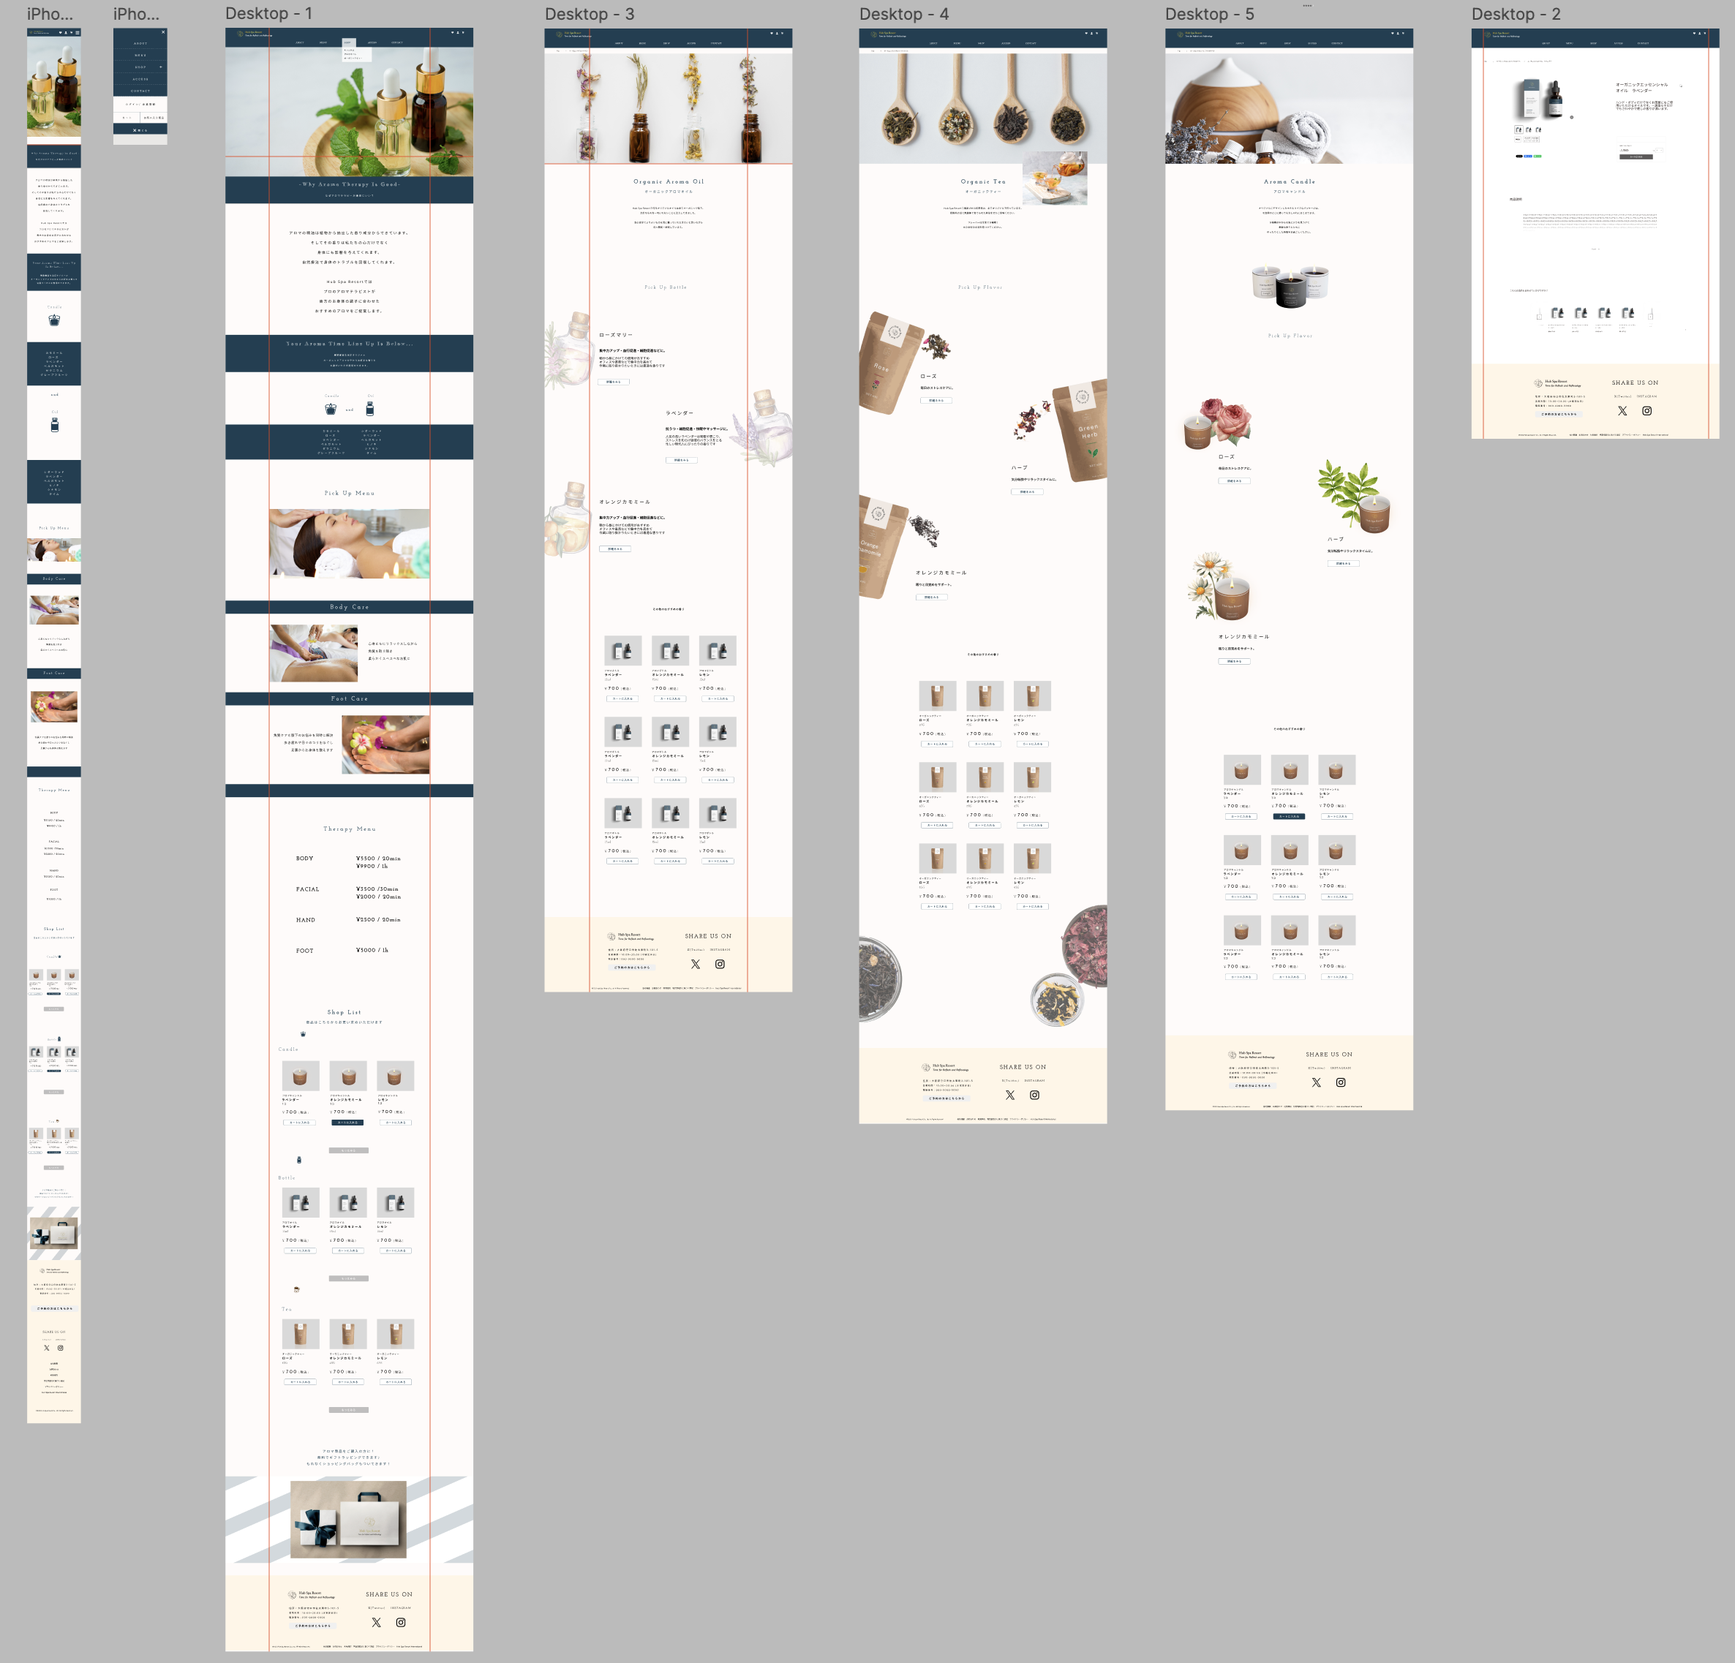
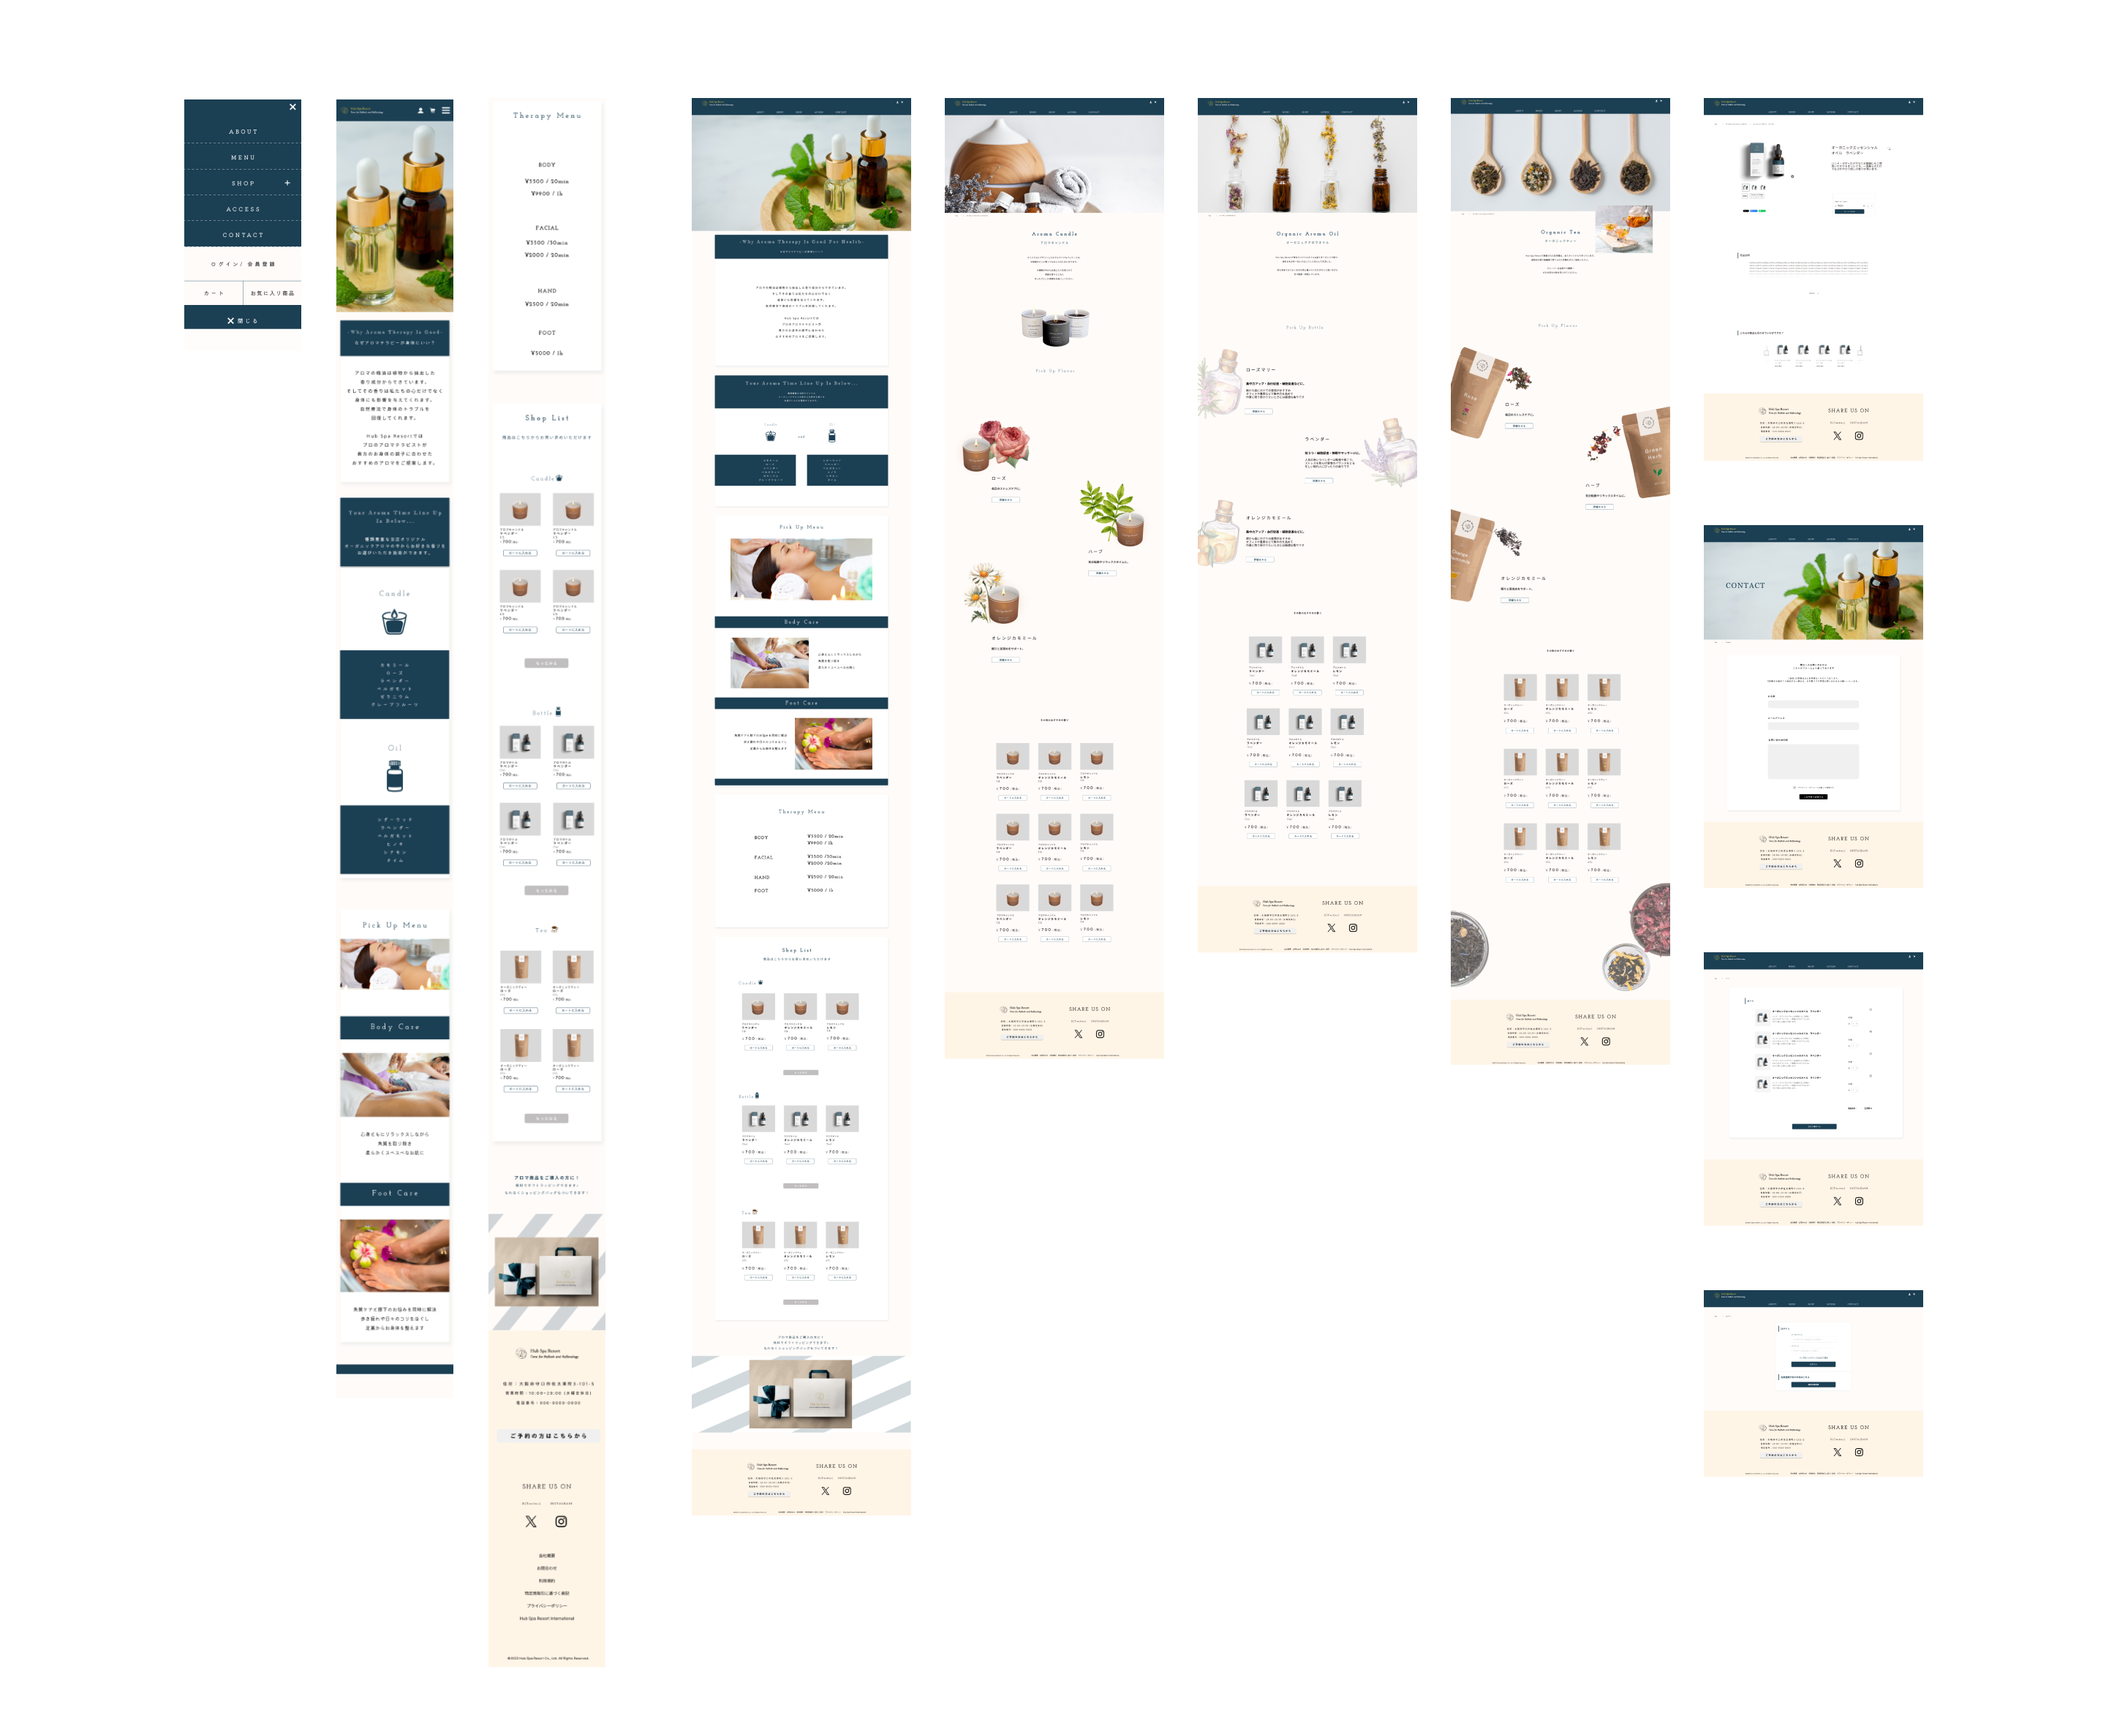
並べ替え

diff --git a/index.html b/index.html
@@ -624,7 +624,8 @@
                         
                         <img src="branding/aroma.png">
                         <p>ECデザイン</p>
-                        <img src="branding/figma-aroma.png">
+                        <img src="branding/figma-aroma.png" style="width:80%;">
+                        <p style="margin: -45px auto 25px">(1920px)</p>
                         <!-- <img src="branding/aroma1.jpg" >
                         <img src="branding/aroma2.jpg"> -->
                         <p><a href="https://www.figma.com/proto/YiI7diBzSTRhnYA3CJDvk4/%E3%82%A2%E3%83%AD%E3%83%9EEC?node-id=0-812&t=7wEcfmwdsZyhIjdf-1" target="_blank" class="btn_13">アロマECサイト制作ページ</a></p>
@@ -638,15 +639,15 @@
                     <input id="block-04" type="checkbox" class="gallery-toggle"> 
                     <label class="Label" for="block-04"><li class="gallery-text"><span >ハンバーガー店のWEBサイト制作コーディング</span></li></label>
                     <div class="brand-content" >
-                        <div class="img-flex" style="width: 75%; margin: 0 auto; justify-content: center;">
+                        <div class="img-flex" style="width: 70%; margin: 0 auto; justify-content: center;">
                             <img src="branding/burger_black.jpg">
                             <img src="branding/burger_black2.jpg">
                             </div>
-                            <div class="img-flex" style="width: 75%; margin: 0 auto; justify-content: center;">
+                            <div class="img-flex" style="width: 70%; margin: 0 auto; justify-content: center;">
                             <img src="branding/burger-shopcard.jpg">
                             <img src="branding/burger-shopcard2.jpg">
                             </div>
-                            <div class="img-flex" style="width: 75%; margin: 0 auto; justify-content: center;">
+                            <div class="img-flex" style="width: 70%; margin: 0 auto; justify-content: center;">
                             <img src="branding/burger-menu.jpg">
                             <img src="branding/burger-menu2.jpg">
                             </div>
@@ -674,11 +675,11 @@
 
 
                 <div class="gallery-category"> 
-                    <img src="branding/cookie-img.jpg">  
+                    <img src="branding/cookie-img.jpg" style="width: 50%;">  
                     <input id="block-06" type="checkbox" class="gallery-toggle"> 
                     <label class="Label" for="block-06"><li class="gallery-text"><span >洋菓子販売店LP模写</span></li></label>
                     <div class="brand-content">
-                        <div class="img-flex" style="width: 86%; margin: 0 auto; justify-content: center;">
+                        <div class="img-flex" style="width: 80%; margin: 0 auto; justify-content: center;">
                         <img src="branding/cookie-lp.jpg" >
                         <img src="branding/cookie-lp2.jpg" >
                         </div>
@@ -691,41 +692,7 @@
             </div>    
 
             
-            <div class="gallery">
-                <p>- マーケティング -</p>
-                <h2>Marketing▼</h2>
-            </div>   
-            <div class="gallery-category"> 
-                <img src="branding/marketing-report.jpg">  
-                
-                <p><a href="https://online.updf.com/pdf/share?shareId=822085682481602561">定例レポート作成と改善提案（一例）</a></p>
-                <div style="margin-bottom: 120px;"></div>
-            </div>
-
-
-            <div class="gallery">
-                <p class="web-midashi">- その他入選 -</p>
-             </div> 
-            <div class="gallery-nenga">
-                
-                <div class="compe-nenga">
-                    <img src="branding/reiwalogo.gif" width="229px" height="45px">
-                    <p class="web-midashi2">れいわdeねんが様での掲載+商品化はがきデザイン</p>
-                    <div class="img-flex">
-                        <img src="branding/compe_nenga.png">
-                        <img src="branding/compe_nenga2.JPG">
-                    </div>
-                </div>
-                <div class="compe-nenga">
-                    <img src="branding/hanslogo.png" width="190px" height="70px">
-                    <p class="web-midashi2"> <a href="https://printing-service.jp/vote/#detail/57/%E3%81%82%E3%82%8A%E3%81%A1%E3%82%83%E3%82%93/%E3%82%BF%E3%82%A4%E3%83%88%E3%83%AB%E3%81%AF%E3%80%8C%E4%BC%9D%E8%AA%AC%E3%81%AE%E8%BE%B0%E3%81%A8%E5%92%8C%E3%81%AE%E8%B1%A1%E5%BE%B4%E3%80%8D%E3%80%82%E3%82%B3%E3%83%B3%E3%82%BB%E3%83%97%E3%83%88%E3%81%AF%E5%B9%BB%E3%81%A8%E7%8F%BE%E5%AE%9F%E3%81%AE%E5%92%8C%E9%A2%A8%E6%99%AF%E3%81%A7%E3%81%99%E3%80%82%E8%83%8C%E6%99%AF%E3%81%AF%E9%9A%9C%E5%AD%90%E3%82%84%E5%B1%8F%E9%A2%A8%E3%82%92%E3%82%A4%E3%83%A1%E3%83%BC%E3%82%B8%E3%81%97%E3%80%81%E6%B0%B4%E5%BD%A9%E3%81%AE%E3%82%A4%E3%83%A9%E3%82%B9%E3%83%88%E3%82%92%E7%B4%B0%E3%81%8B%E3%81%8F%E5%8F%96%E3%82%8A%E5%85%A5%E3%82%8C%E3%81%BE%E3%81%97%E3%81%9F%E3%80%82%E6%98%94%E3%81%AA%E3%81%8C%E3%82%89%E3%81%AE%E5%92%8C%E3%81%AE%E9%A2%A8%E6%99%AF%E3%82%92%E5%B9%B3%E5%92%8C%E7%9A%84%E3%81%AB%E5%84%AA%E3%81%97%E3%81%8F%E8%A1%A8%E7%8F%BE%E3%81%97%E3%81%A6%E3%81%84%E3%81%BE%E3%81%99%E3%80%82">東急ハンズ様一次選考通過はがき</a></p>
-                    <div class="img-flex">
-                        <img src="branding/hans2.jpg">
-                        <img src="branding/hans.png">
-                    </div>
-                
-                </div>
-            </div>
+          
 
            
            
@@ -796,6 +763,62 @@
                         </div>
                     </div>
 
+                </div>
+            </div>
+
+
+            <hr width="80%" border-top: .5px solid #aaa style="margin-top:50px;" >
+
+
+            <div class="other" style="margin-bottom: 50px;">
+            <p>その他</p>
+            <h2>Other</h2>
+            <hr width="80%" border-top: .5px solid #aaa style="margin-top:15px;" >
+            </div>
+            
+
+            <div class="marketing" style="margin-top: 30px;">
+                <p>- マーケティング -</p>
+                <h2>Marketing▼</h2>
+            </div>   
+          
+
+
+            <div class="gallery-category"> 
+                <img src="branding/marketing-report.jpg">  
+                
+                <p><a href="https://online.updf.com/pdf/share?shareId=822085682481602561">定例レポート作成と改善提案（一例）</a></p>
+                <div style="margin-bottom: 120px;"></div>
+            </div>
+
+
+
+            
+            <div class="gallery" style="margin-top: 250px;">
+                <!-- <p class="web-midashi">- 入選関連 -</p> -->
+                <p>その他入選作品▼</p>
+                <hr width="50%" border-top: .5px solid #aaa style="margin-top:15px;" >
+               
+             </div> 
+
+            <div class="gallery-nenga">
+                
+                <div class="compe-nenga">
+                    <img src="branding/reiwalogo.gif" width="229px" height="45px">
+                    <p class="web-midashi2">れいわdeねんが様での掲載+商品化はがきデザイン</p>
+                    <div class="img-flex">
+                        <img src="branding/compe_nenga.png">
+                        <img src="branding/compe_nenga2.JPG">
+                    </div>
+                </div>
+                <div class="compe-nenga">
+                    <img src="branding/hanslogo.png" width="190px" height="70px">
+                    <p class="web-midashi2"> <a href="https://printing-service.jp/vote/#detail/57/%E3%81%82%E3%82%8A%E3%81%A1%E3%82%83%E3%82%93/%E3%82%BF%E3%82%A4%E3%83%88%E3%83%AB%E3%81%AF%E3%80%8C%E4%BC%9D%E8%AA%AC%E3%81%AE%E8%BE%B0%E3%81%A8%E5%92%8C%E3%81%AE%E8%B1%A1%E5%BE%B4%E3%80%8D%E3%80%82%E3%82%B3%E3%83%B3%E3%82%BB%E3%83%97%E3%83%88%E3%81%AF%E5%B9%BB%E3%81%A8%E7%8F%BE%E5%AE%9F%E3%81%AE%E5%92%8C%E9%A2%A8%E6%99%AF%E3%81%A7%E3%81%99%E3%80%82%E8%83%8C%E6%99%AF%E3%81%AF%E9%9A%9C%E5%AD%90%E3%82%84%E5%B1%8F%E9%A2%A8%E3%82%92%E3%82%A4%E3%83%A1%E3%83%BC%E3%82%B8%E3%81%97%E3%80%81%E6%B0%B4%E5%BD%A9%E3%81%AE%E3%82%A4%E3%83%A9%E3%82%B9%E3%83%88%E3%82%92%E7%B4%B0%E3%81%8B%E3%81%8F%E5%8F%96%E3%82%8A%E5%85%A5%E3%82%8C%E3%81%BE%E3%81%97%E3%81%9F%E3%80%82%E6%98%94%E3%81%AA%E3%81%8C%E3%82%89%E3%81%AE%E5%92%8C%E3%81%AE%E9%A2%A8%E6%99%AF%E3%82%92%E5%B9%B3%E5%92%8C%E7%9A%84%E3%81%AB%E5%84%AA%E3%81%97%E3%81%8F%E8%A1%A8%E7%8F%BE%E3%81%97%E3%81%A6%E3%81%84%E3%81%BE%E3%81%99%E3%80%82">東急ハンズ様一次選考通過はがき</a></p>
+                    <div class="img-flex">
+                        <img src="branding/hans2.jpg">
+                        <img src="branding/hans.png">
+                    </div>
+                
                 </div>
             </div>
            

diff --git a/styles.css b/styles.css
@@ -310,14 +310,18 @@ margin:0 auto ;
     margin:0 auto ;
     }
     
-.gallery h2{
+.gallery h2,
+.marketing h2,
+.other h2{
     font-family: 'Playfair Display', serif;
     text-align: center;
     font-size: 3rem;
     letter-spacing: 3px;
     margin: 0 auto;
 }
-.gallery p{
+.gallery p,
+.marketing p,
+.other p{
     font-family: 'Playfair Display', serif;
     text-align: center;
     font-size: 1.2rem;
